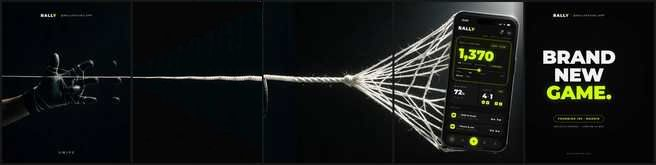
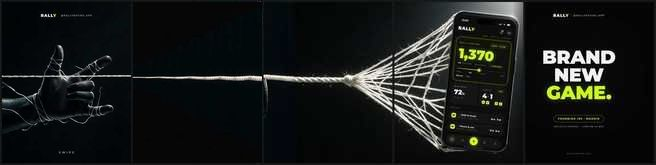
Slide 1: suit-glove hand rebuild, updated asset URLs and preview

Changed region(s): [[0.0, 0.2727, 0.2134, 0.7879], [0.061, 0.6364, 0.0915, 0.6667]]

diff --git a/social/spiderman-teaser/README.md b/social/spiderman-teaser/README.md
@@ -12,17 +12,17 @@ panorama, so the cord lines up edge-to-edge on every swipe.
 
 | # | Content | Final JPEG (1080×1350) |
 |---|---------|------------------------|
-| 1 | Gloved hand + cord, lockup, SWIPE | https://d2ol7oe51mr4n9.cloudfront.net/user_3FwcSFk4XJLeeaMb70sVr46BWA5/9c8084b0-4977-44b5-98ec-1b9e31281d0d.jpg |
-| 2 | Taut cord across black | https://d2ol7oe51mr4n9.cloudfront.net/user_3FwcSFk4XJLeeaMb70sVr46BWA5/d9565561-2df2-4418-b3fb-2fb02831acb9.jpg |
+| 1 | Suit-glove hand + cord, lockup, SWIPE | https://d2ol7oe51mr4n9.cloudfront.net/user_3FwcSFk4XJLeeaMb70sVr46BWA5/7e0faa4b-cfe0-4006-8413-0a407b3d6ed0.jpg |
+| 2 | Taut cord across black | https://d2ol7oe51mr4n9.cloudfront.net/user_3FwcSFk4XJLeeaMb70sVr46BWA5/809ab8a9-105b-4e7a-896b-fe9e68c2b80c.jpg |
 | 3 | Cord frays into net | https://d2ol7oe51mr4n9.cloudfront.net/user_3FwcSFk4XJLeeaMb70sVr46BWA5/f641c4f1-5ba5-44f9-90ec-7c6b3026c518.jpg |
 | 4 | Net catches the phone (RALLY home) | https://d2ol7oe51mr4n9.cloudfront.net/user_3FwcSFk4XJLeeaMb70sVr46BWA5/96d4007b-4148-4cee-98d2-5f69e363d1f3.jpg |
 | 5 | BRAND NEW GAME. + Founding 100 CTA | https://d2ol7oe51mr4n9.cloudfront.net/user_3FwcSFk4XJLeeaMb70sVr46BWA5/f710b332-18c7-45f1-a36b-395c2bad02be.jpg |
 
 Full panorama (5400×1350):
-https://d2ol7oe51mr4n9.cloudfront.net/user_3FwcSFk4XJLeeaMb70sVr46BWA5/ea7897d4-dc68-44a8-b225-1bfcac0850aa.jpg
+https://d2ol7oe51mr4n9.cloudfront.net/user_3FwcSFk4XJLeeaMb70sVr46BWA5/16dde7bb-59b8-4989-b42f-04cadcc5dd48.jpg
 
 Contact sheet:
-https://d2ol7oe51mr4n9.cloudfront.net/user_3FwcSFk4XJLeeaMb70sVr46BWA5/cef67101-4a1d-4a87-8604-b3eff1fa6311.jpg
+https://d2ol7oe51mr4n9.cloudfront.net/user_3FwcSFk4XJLeeaMb70sVr46BWA5/997ef31f-c73b-4cec-896e-af1ed1859cd9.jpg
 
 ![carousel preview](./carousel_preview.jpg)
 
@@ -58,4 +58,7 @@ No hashtags, no emojis. Post order: slides 1→5, 4:5 portrait.
   and uploads the outputs.
 
 Seam QA (brightest-row y / thickness, left vs right of each cut):
-seam 1|2: 629/8 vs 629/9 · seam 2|3: 629/42 vs 630/45.
+seam 1|2: 617/12 vs 616/13 · seam 2|3: 616/45 vs 617/46.
+
+Slide 1 uses the suit-glove hand generation (`aa438821…`); the cord
+centerline auto-tunes to the hand's natural cord height (y=616).
